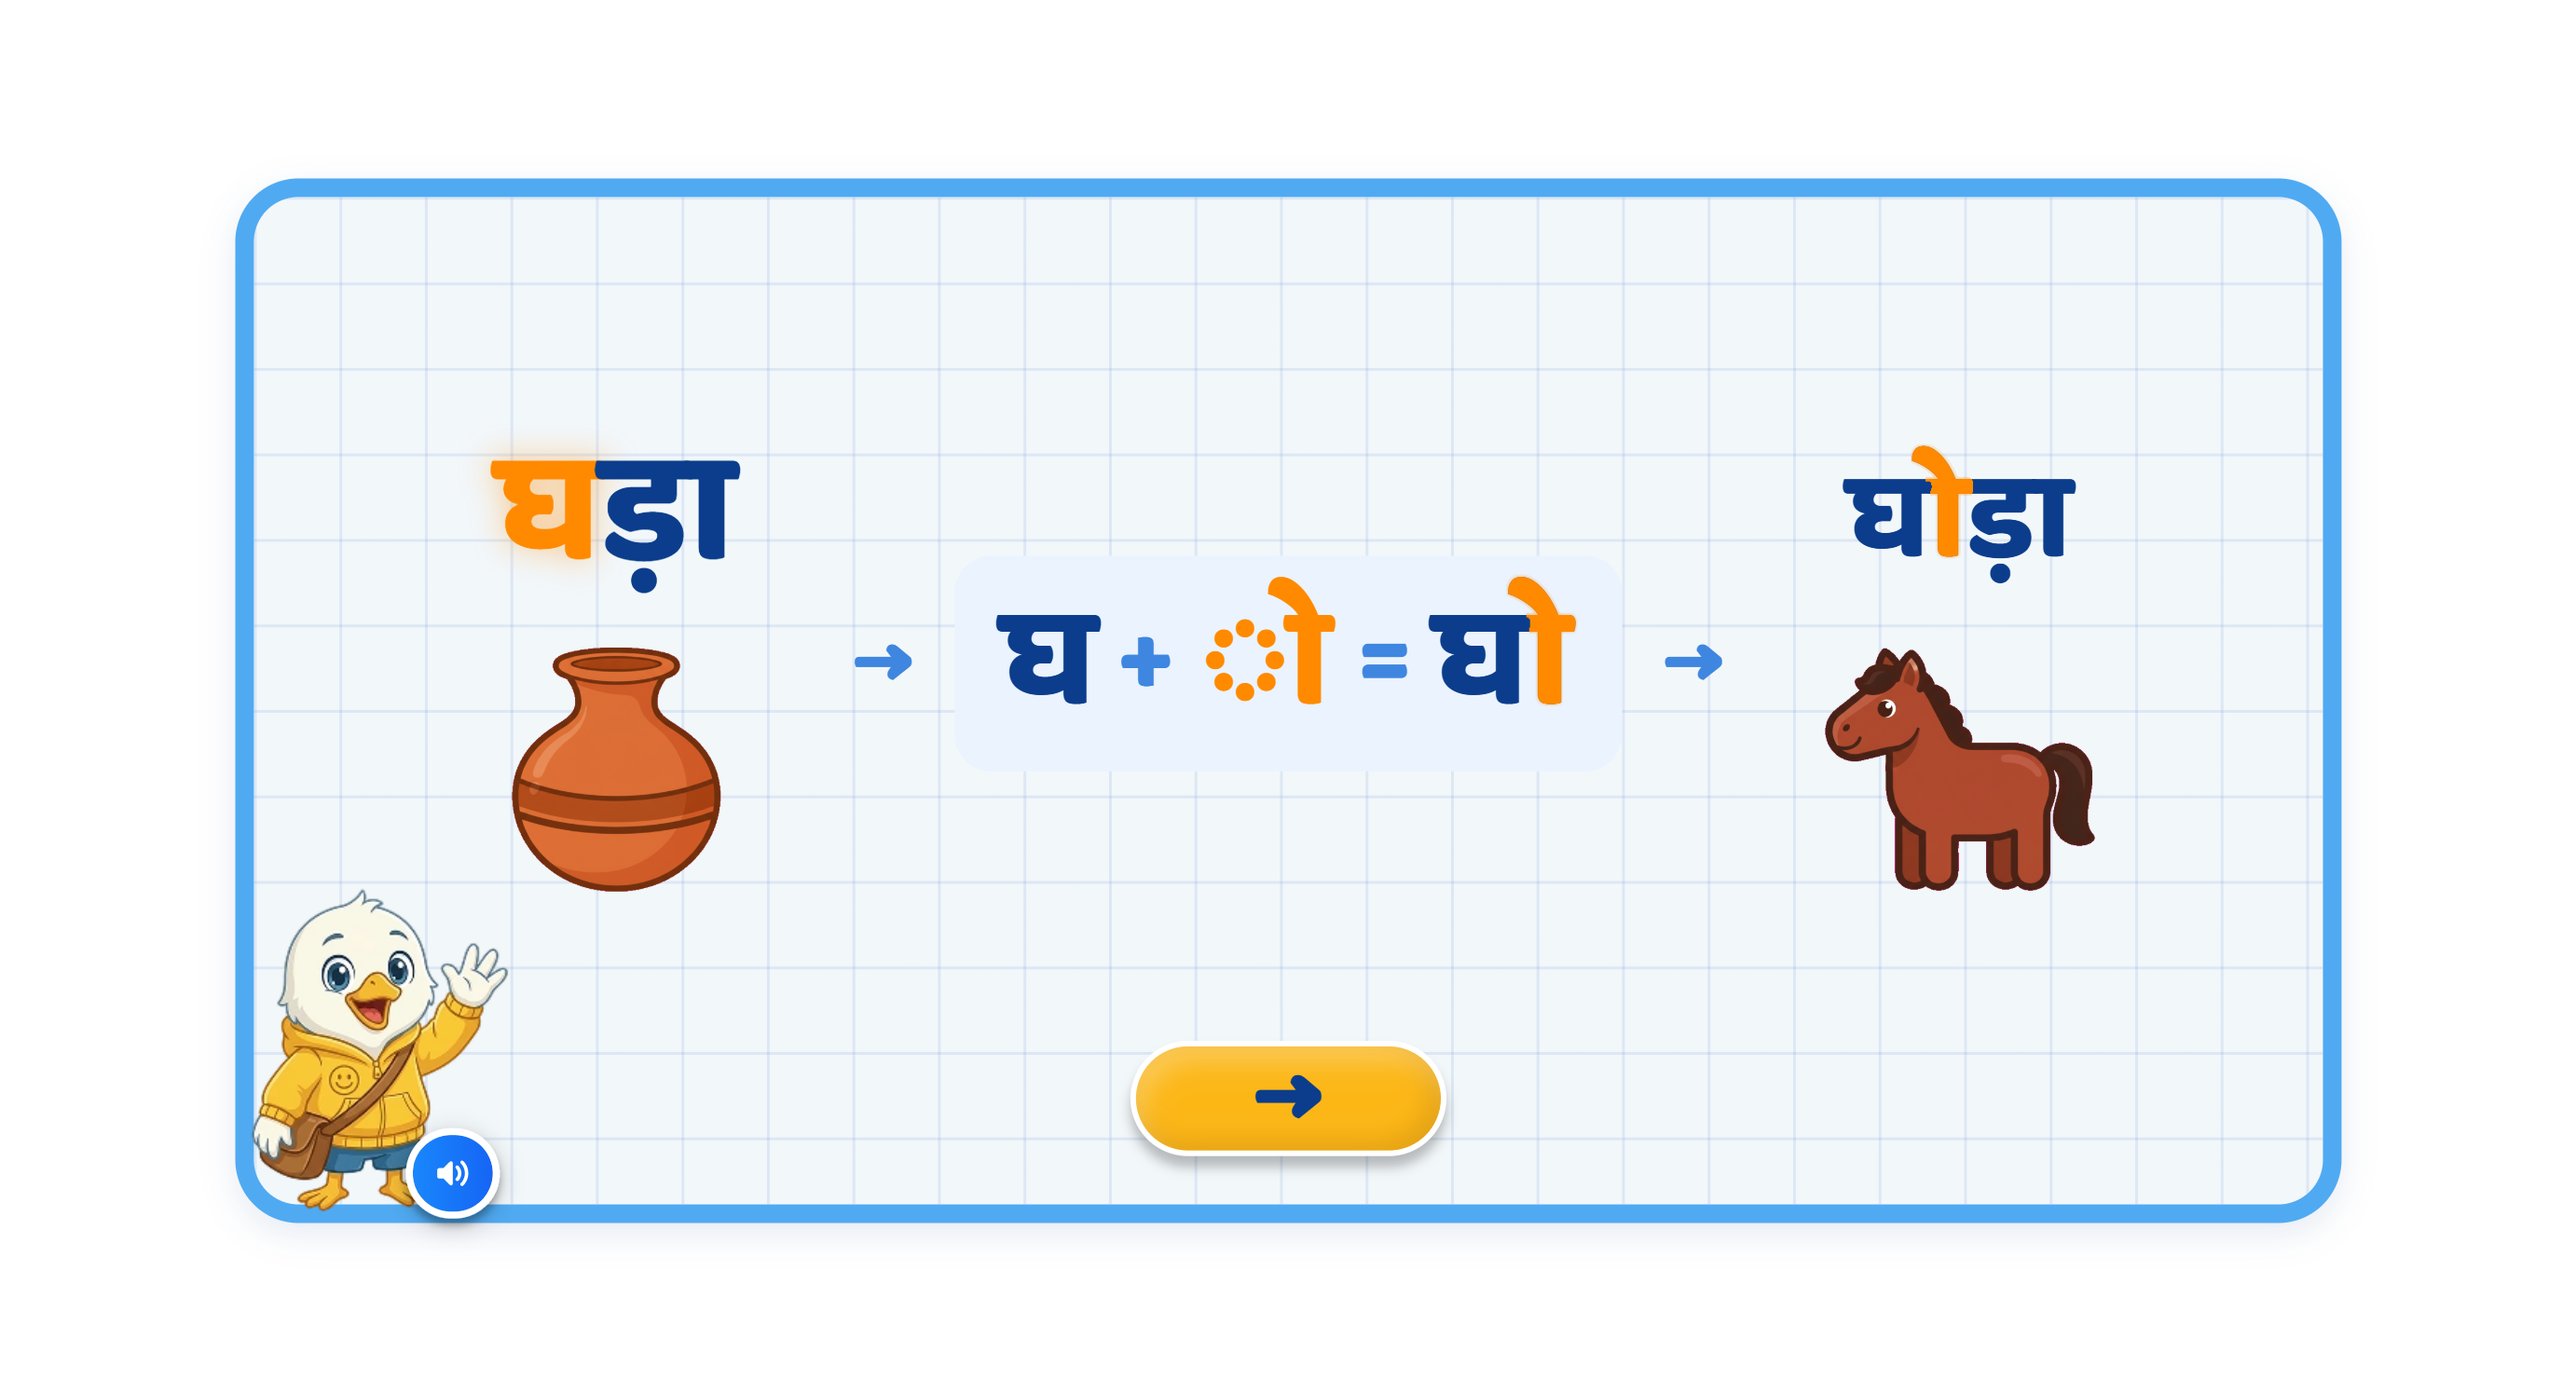
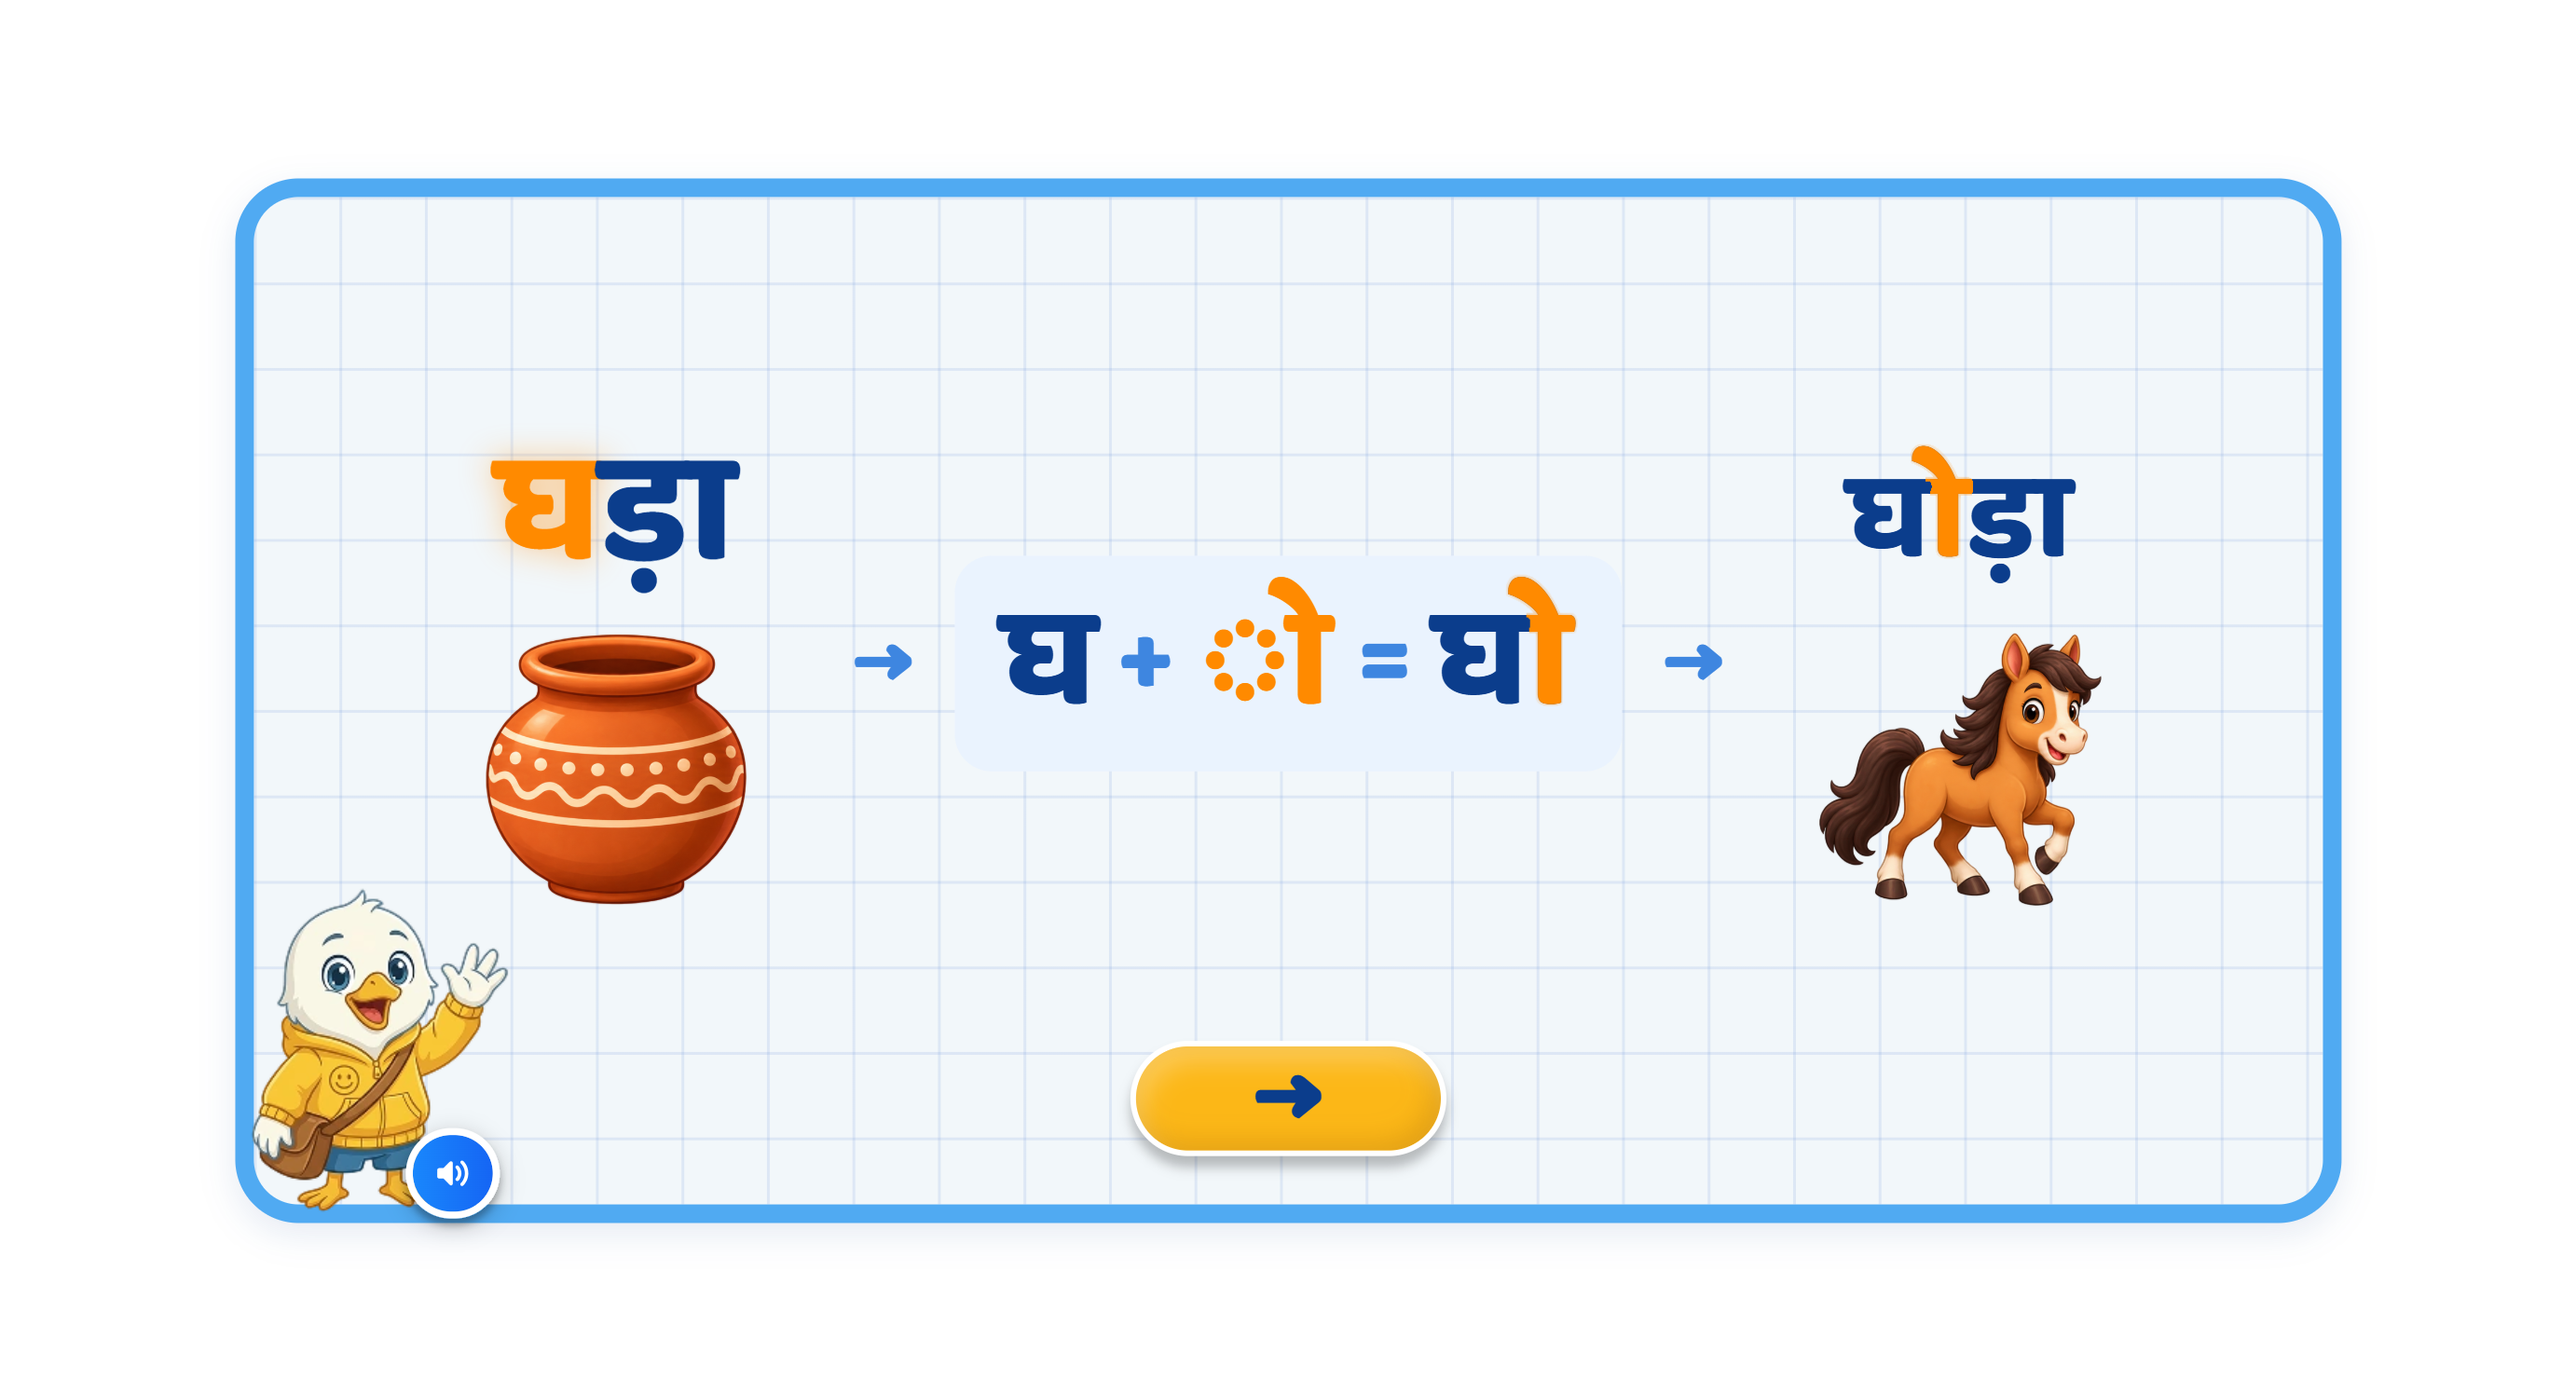
replaced the newer images

Changed region(s): [[0.1867, 0.4305, 0.3111, 0.6457], [0.6845, 0.4612, 0.809, 0.6457]]

diff --git a/3_BUILD/HI02H11_L02_S04.html b/3_BUILD/HI02H11_L02_S04.html
@@ -3962,7 +3962,7 @@ body.vo-lock .sg-vo{ pointer-events:none !important; opacity:.45; filter:graysca
 
 /* == TRAIN STYLES :: END == */
 </style>
-<link rel="preload" as="image" fetchpriority="high" href="assets/Images/obj_ghoda.png"><link rel="preload" as="image" fetchpriority="high" href="assets/Images/obj_khilona.png">
+<link rel="preload" as="image" fetchpriority="high" href="assets/Images/obj_ghoda.png?v=3aba101504c6"><link rel="preload" as="image" fetchpriority="high" href="assets/Images/obj_khilona.png?v=3aba101504c6">
 <style id="bundleLetterGlow">
 .sg-ex-letter{
   box-shadow:0 0 0 6px rgba(255,206,46,.65),0 0 18px 4px rgba(252,188,24,.50),
@@ -5233,9 +5233,9 @@ body.vo-lock .sg-vo{ pointer-events:none !important; opacity:.45; filter:graysca
     "hint3_hand": false,
     "scene_glow": [
      [
-      0.54,
-      0.5,
-      0.25,
+      0.545,
+      0.35,
+      0.215,
       0.25
      ]
     ]
@@ -5289,10 +5289,10 @@ body.vo-lock .sg-vo{ pointer-events:none !important; opacity:.45; filter:graysca
     "hint3_hand": false,
     "scene_glow": [
      [
-      0.47,
-      0.66,
-      0.23,
-      0.23
+      0.46,
+      0.64,
+      0.225,
+      0.3
      ]
     ]
    }
@@ -5345,10 +5345,10 @@ body.vo-lock .sg-vo{ pointer-events:none !important; opacity:.45; filter:graysca
     "hint3_hand": false,
     "scene_glow": [
      [
-      0.655,
-      0.34,
-      0.16,
-      0.23
+      0.59,
+      0.32,
+      0.095,
+      0.175
      ]
     ]
    }
@@ -6880,10 +6880,14 @@ function sortSeqReveal(tray, slide){
   autoPlayChain(slide, ()=> setTimeout(step, 250));               // prompt chain FULLY, then tiles one at a time
   setTimeout(()=>{ if(CARD.slides[state.idx] === slide) enableAll(); }, 16000);   // global safety net — never soft-lock
 }
+/* [S04] CACHE-BUST EVERY PICTURE, the same way _av() does for audio. A redrawn picture keeps its
+   filename, so a browser that has seen the old one keeps showing it. __IMG_V is stamped by the
+   builder from the CONTENT of assets/Images, so it moves exactly when a picture changes. */
+var __IMG_V = "3aba101504c6";
 function imgOrEmoji(imgKey, emoji, imgClass, emojiClass){
   if(imgKey){
     const fb = String(emoji||"❓").replace(/'/g,"");
-    return `<img class="${imgClass}" src="assets/Images/${imgKey}.${IMG_EXT}" alt="" `+
+    return `<img class="${imgClass}" src="assets/Images/${imgKey}.${IMG_EXT}?v=${__IMG_V}" alt="" `+
       `onerror="var s=document.createElement('span');s.className='${emojiClass}';s.textContent='${fb}';this.replaceWith(s);">`;
   }
   return `<span class="${emojiClass}">${emoji||"❓"}</span>`;
@@ -6898,7 +6902,7 @@ function letterCell(letter){
    picture at a uniform size (weight is not visual — the child uses known heaviness / the balance cue). */
 function imgOrEmojiSized(img, emoji, px){
   const fb = String(emoji||"❓").replace(/'/g,"");
-  if(img) return `<img class="ord-obj-img" style="width:${px}px;height:${px}px" src="assets/Images/${img}.${IMG_EXT}" alt="" `+
+  if(img) return `<img class="ord-obj-img" style="width:${px}px;height:${px}px" src="assets/Images/${img}.${IMG_EXT}?v=${__IMG_V}" alt="" `+
     `onerror="var s=document.createElement('span');s.className='ord-obj-emoji';s.style.fontSize='${Math.round(px*0.82)}px';s.textContent='${fb}';this.replaceWith(s);">`;
   return `<span class="ord-obj-emoji" style="font-size:${Math.round(px*0.82)}px">${emoji||"❓"}</span>`;
 }

diff --git a/4_ENGINE/lesson_template.html b/4_ENGINE/lesson_template.html
@@ -5478,10 +5478,14 @@ function sortSeqReveal(tray, slide){
   autoPlayChain(slide, ()=> setTimeout(step, 250));               // prompt chain FULLY, then tiles one at a time
   setTimeout(()=>{ if(CARD.slides[state.idx] === slide) enableAll(); }, 16000);   // global safety net — never soft-lock
 }
+/* [S04] CACHE-BUST EVERY PICTURE, the same way _av() does for audio. A redrawn picture keeps its
+   filename, so a browser that has seen the old one keeps showing it. __IMG_V is stamped by the
+   builder from the CONTENT of assets/Images, so it moves exactly when a picture changes. */
+var __IMG_V = "__IMG_V_STAMP__";
 function imgOrEmoji(imgKey, emoji, imgClass, emojiClass){
   if(imgKey){
     const fb = String(emoji||"❓").replace(/'/g,"");
-    return `<img class="${imgClass}" src="assets/Images/${imgKey}.${IMG_EXT}" alt="" `+
+    return `<img class="${imgClass}" src="assets/Images/${imgKey}.${IMG_EXT}?v=${__IMG_V}" alt="" `+
       `onerror="var s=document.createElement('span');s.className='${emojiClass}';s.textContent='${fb}';this.replaceWith(s);">`;
   }
   return `<span class="${emojiClass}">${emoji||"❓"}</span>`;
@@ -5496,7 +5500,7 @@ function letterCell(letter){
    picture at a uniform size (weight is not visual — the child uses known heaviness / the balance cue). */
 function imgOrEmojiSized(img, emoji, px){
   const fb = String(emoji||"❓").replace(/'/g,"");
-  if(img) return `<img class="ord-obj-img" style="width:${px}px;height:${px}px" src="assets/Images/${img}.${IMG_EXT}" alt="" `+
+  if(img) return `<img class="ord-obj-img" style="width:${px}px;height:${px}px" src="assets/Images/${img}.${IMG_EXT}?v=${__IMG_V}" alt="" `+
     `onerror="var s=document.createElement('span');s.className='ord-obj-emoji';s.style.fontSize='${Math.round(px*0.82)}px';s.textContent='${fb}';this.replaceWith(s);">`;
   return `<span class="ord-obj-emoji" style="font-size:${Math.round(px*0.82)}px">${emoji||"❓"}</span>`;
 }

diff --git a/1_SPEC/build_skill_HI02H11_L02_S04.py b/1_SPEC/build_skill_HI02H11_L02_S04.py
@@ -85,11 +85,12 @@ SCENE = {
     "scn_hathauda": "\U0001F528",
 }
 # Hint 2 on the sentence screens glows the part of the picture the sentence is about, as
-# fractions of the ARTWORK (cx, cy, rx, ry). Read off the shipped 1024x1024 scenes.
+# fractions of the ARTWORK (cx, cy, rx, ry).
 SCENE_GLOW = {
-    "scn_ped_kaua": [[0.540, 0.500, 0.250, 0.250]],   # the crow on its branch
-    "scn_khel":     [[0.470, 0.660, 0.230, 0.230]],   # the pull-along duck, wheels and string
-    "scn_hathauda": [[0.655, 0.340, 0.160, 0.230]],   # the hammer in his hand
+    # re-measured 2026-10-07 on the developer's new scenes (1024 wide, ~5:4)
+    "scn_ped_kaua": [[0.545, 0.350, 0.215, 0.250]],   # the crow on its branch
+    "scn_khel":     [[0.460, 0.640, 0.225, 0.300]],   # the pull-along duck, wheels and string
+    "scn_hathauda": [[0.590, 0.320, 0.095, 0.175]],   # the hammer in his hand
 }
 NAME = {O: "ओ", AU: "औ"}
 SLUG = {O: "o", AU: "au"}
@@ -1002,6 +1003,14 @@ def main():
             _h.update(open(os.path.join(AUD_DIR, _f), "rb").read())
     html = html.replace("__AUDIO_V_STAMP__", _h.hexdigest()[:12])
     html = html.replace("__MR_AUDIO_V_STAMP__", _h.hexdigest()[:12])
+    # the same for the pictures: a redrawn picture keeps its name, so its URL has to change
+    _hi = hashlib.sha1()
+    for _f in sorted(os.listdir(IMG_DIR)):
+        _hi.update(_f.encode("utf-8")); _hi.update(open(os.path.join(IMG_DIR, _f), "rb").read())
+    html = html.replace("__IMG_V_STAMP__", _hi.hexdigest()[:12])
+    html = re.sub(r'(<link rel="preload" as="image"[^>]*href="assets/Images/[^"?]+)"',
+                  lambda m: m.group(1) + '?v=' + _hi.hexdigest()[:12] + '"', html)
+    print("  OK  picture stamp %s" % _hi.hexdigest()[:12])
     open(os.path.join(BUNDLE, CODE + ".html"), "w", encoding="utf-8").write(html)
     open(os.path.join(BUNDLE, "card.json"), "w", encoding="utf-8").write(payload + "\n")
     write_vo_list()

diff --git a/CHANGES.md b/CHANGES.md
@@ -136,3 +136,29 @@ r101/r102 stay out), then `inject_train.py` and the builder were re-run.
   100 % on the kit's clock; sheets शाबाश → talk → idle; 0 open-mouth frames after the line.
 - **Play button:** the sound starts 1 ms after the press (was ~140 ms, on release), once.
 - **Console:** no errors (only the server's missing favicon).
+
+## Round 3 (2026-10-07) — the developer's new pictures
+
+Six files supplied in `3_BUILD/assets/Images/` (originals kept in `1_SPEC/art_src/2026-10-07_supplied/`):
+three object strips were cut into single transparent pictures, and three scenes were resized to
+1024 px wide.
+
+| new picture | replaces |
+|---|---|
+| crow · potted plant · drum | `obj_kaua` · `obj_paudha` · `obj_dhol` |
+| parrot · hammer · running boy | `obj_tota` · `obj_hathauda` · `obj_daud` |
+| koel on a branch · pink flower · toy car | `obj_koyal` · `obj_khilna` · `obj_khilona` |
+| crow in a tree · boy with pull-along duck · carpenter | `scn_ped_kaua` · `scn_khel` · `scn_hathauda` |
+
+| horse · clay pot · peacock (`Cheerful Horse, Clay Pot, and Peacock Trio.png`, found in Downloads) | `obj_ghoda` · `obj_ghada` · `obj_mor` |
+
+Hint 2's scene glow re-measured on the three new scenes (`SCENE_GLOW`). Only `obj_khilna_bud` (the
+bud on page 5) is still the old art — no new bud was supplied.
+
+**Pictures are now cache-busted** (`?v=<hash of assets/Images>`), like the audio already was: before
+this, a browser (or Vercel's 1-day cache) that had seen the old pictures kept showing them after the
+files were replaced.
+
+⚑ **The खिलौना picture is now a toy car, but page 15's scene shows a toy duck** — the deck asks for
+the option to match the scene. ⚑ **The bud on page 5 is the old flat red one**, so it opens into a
+glossy pink flower of a different style.
